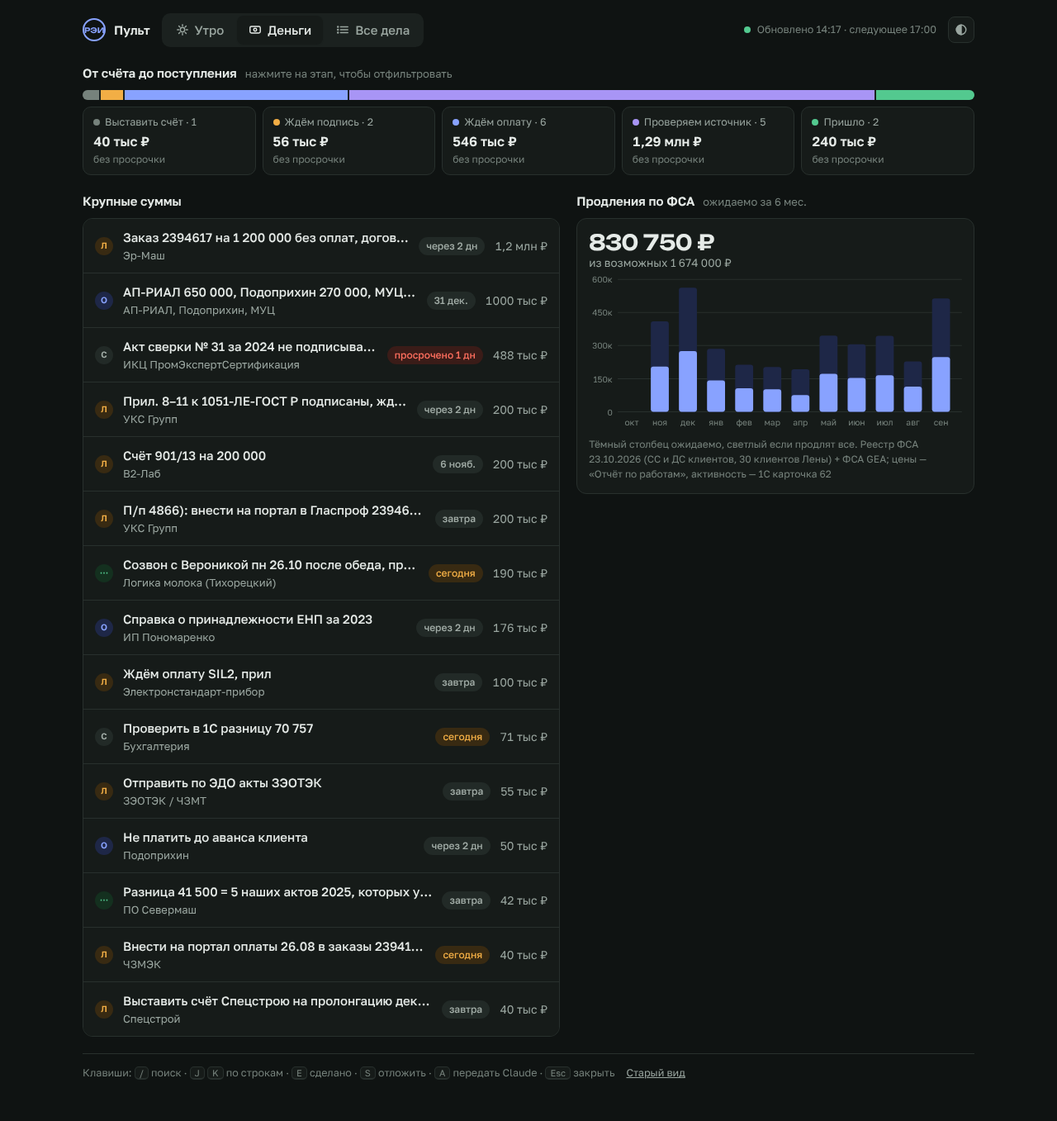
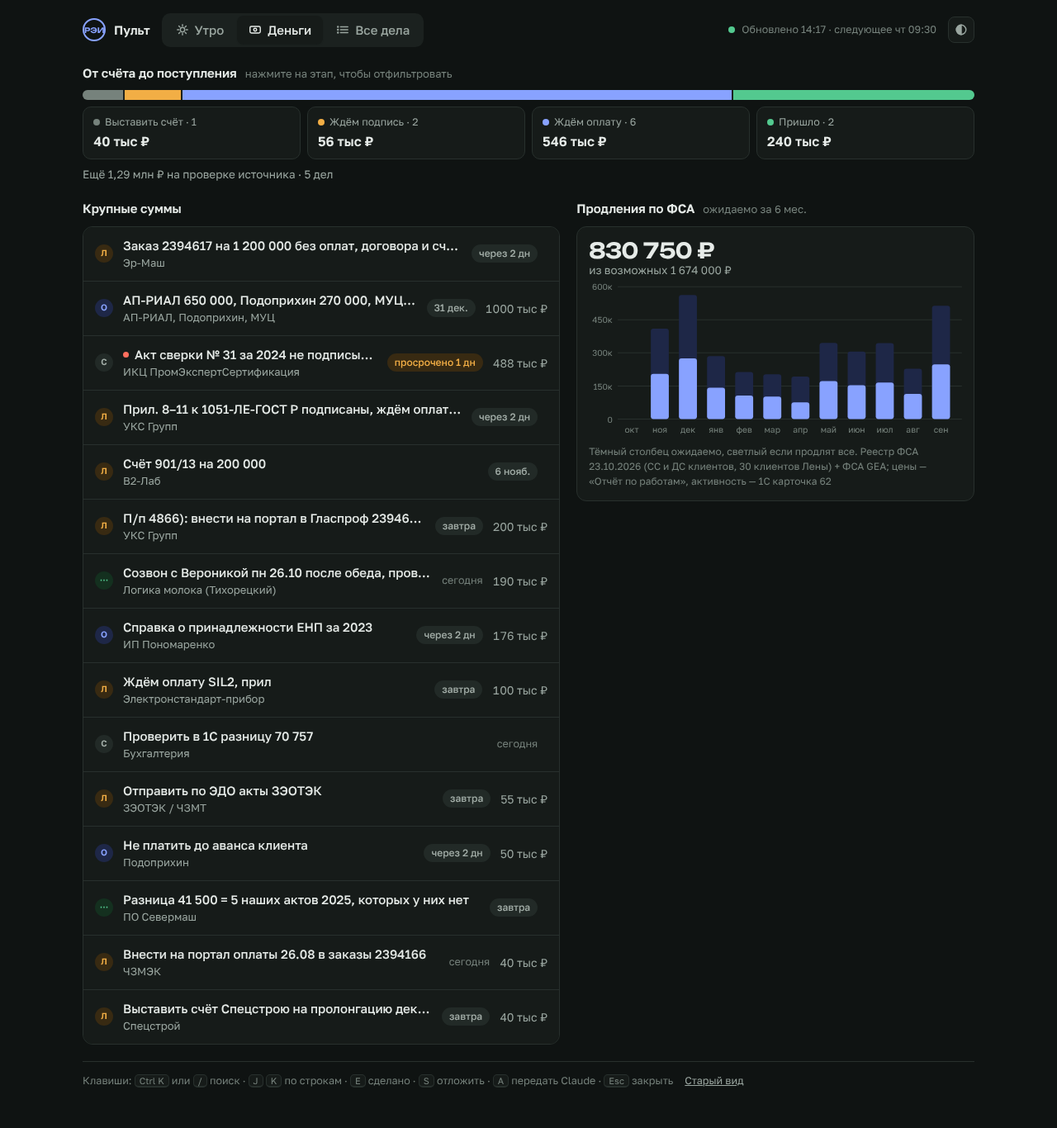
Пульт «Утро»: правки по критике штурма
«За вами» только сегодня и просрочка, остальное в корзине «На неделе»;
дубли «Нужно от вас» с базой задач убираются; заголовок = действие, тема серым;
красный только точкой «горит», пилюля только у просрочки; сумма не дублируется;
полоса денег из 4 этапов, проверка источника строкой ниже; «Горит у команды»;
группы во «Все дела» свёрнуты; Ctrl+K для поиска.

Claude-Session: https://claude.ai/code/session_01CdRUHbKnEF8o21iSRZJon7

diff --git a/index.html b/index.html
@@ -82,7 +82,7 @@ kbd{font:11px var(--f-body);border:1px solid var(--line);border-bottom-width:2px
 .chk svg{width:12px;height:12px;opacity:0;color:var(--ok)}
 .chk:hover svg,.chk.on svg{opacity:1}
 .chk.on{border-color:var(--ok);background:var(--ok-soft)}
-.chk.hot{border-color:var(--hot)}
+.hotdot{display:inline-block;width:7px;height:7px;border-radius:50%;background:var(--hot);margin-right:7px;vertical-align:2px}
 .main-txt{border:0;background:none;padding:0;text-align:left;min-width:0;display:grid;gap:1px}
 .main-txt .t{font-weight:500;white-space:nowrap;overflow:hidden;text-overflow:ellipsis}
 .main-txt .s{font-size:13px;color:var(--muted);white-space:nowrap;overflow:hidden;text-overflow:ellipsis}
@@ -96,7 +96,7 @@ kbd{font:11px var(--f-body);border:1px solid var(--line);border-bottom-width:2px
 .strip{display:grid;gap:8px}
 .pipe{display:flex;height:12px;border-radius:99px;overflow:hidden;gap:2px;background:var(--sunk)}
 .pipe span{display:block;min-width:4px}
-.stages{display:grid;grid-template-columns:repeat(5,minmax(0,1fr));gap:8px}
+.stages{display:grid;grid-template-columns:repeat(4,minmax(0,1fr));gap:8px}
 .stg{border:1px solid var(--line);border-radius:10px;padding:9px 12px;background:var(--surface);text-align:left;display:grid;gap:1px}
 .stg:hover{border-color:var(--faint)}
 .stg[aria-pressed="true"]{border-color:var(--ink)}
@@ -104,7 +104,7 @@ kbd{font:11px var(--f-body);border:1px solid var(--line);border-bottom-width:2px
 .stg .v{font-weight:600;font-size:16px;font-variant-numeric:tabular-nums}
 .stg .x{font-size:12px;color:var(--hot)}
 /* корзины */
-.buckets{display:grid;grid-template-columns:repeat(3,minmax(0,1fr));gap:10px}
+.buckets{display:grid;grid-template-columns:repeat(4,minmax(0,1fr));gap:10px}
 .bk{border:1px solid var(--line);border-radius:12px;background:var(--surface);padding:12px 14px;text-align:left;display:grid;gap:2px}
 .bk:hover{border-color:var(--faint)}
 .bk[aria-expanded="true"]{border-color:var(--ink)}
@@ -119,7 +119,10 @@ kbd{font:11px var(--f-body);border:1px solid var(--line);border-bottom-width:2px
 .chip{border:1px solid var(--line);background:var(--surface);border-radius:99px;padding:5px 12px;font-size:13px;color:var(--muted);white-space:nowrap}
 .chip[aria-pressed="true"]{background:var(--ink);color:var(--surface);border-color:var(--ink)}
 .grp{display:grid;gap:0}
-.gh{display:flex;gap:10px;align-items:baseline;padding:12px 14px 6px;background:var(--surface);border-top:1px solid var(--line);font-weight:600}
+.gh{display:flex;gap:10px;align-items:baseline;padding:11px 14px;background:var(--surface);border:0;border-top:1px solid var(--line);font-weight:600;width:100%;text-align:left;min-width:0}
+.gh:hover{background:var(--sunk)}
+.gh .car{color:var(--faint);width:10px;flex:none}
+.gh .c{white-space:nowrap;overflow:hidden;text-overflow:ellipsis;min-width:0}
 .gh:first-child{border-top:0}
 .gh .c{color:var(--faint);font-weight:400;font-size:13px}
 .gh .am{margin-left:auto}
@@ -180,7 +183,7 @@ kbd{font:11px var(--f-body);border:1px solid var(--line);border-bottom-width:2px
 .foot a{color:var(--muted)}
 .skel{height:120px;border-radius:12px;background:var(--sunk)}
 @media (max-width:820px){
-  .stages{grid-template-columns:repeat(2,minmax(0,1fr))}.buckets,.money-grid{grid-template-columns:1fr}
+  .stages,.buckets{grid-template-columns:repeat(2,minmax(0,1fr))}.money-grid{grid-template-columns:1fr}
   .tabs{position:fixed;left:0;right:0;bottom:0;z-index:15;border-radius:0;background:var(--surface);border-top:1px solid var(--line);justify-content:space-around;
     padding:6px max(8px,env(safe-area-inset-right,0px)) calc(6px + env(safe-area-inset-bottom,0px)) max(8px,env(safe-area-inset-left,0px))}
   .tab{flex-direction:column;gap:2px;font-size:11.5px;padding:6px 14px;min-height:44px}
@@ -209,7 +212,7 @@ kbd{font:11px var(--f-body);border:1px solid var(--line);border-bottom-width:2px
     <button class="icon-btn" id="theme" title="Тема" aria-label="Сменить тему"><svg viewBox="0 0 18 18" fill="none" stroke="currentColor" stroke-width="1.6"><circle cx="9" cy="9" r="6.5"/><path d="M9 2.5a6.5 6.5 0 000 13z" fill="currentColor"/></svg></button>
   </header>
   <main id="view"><div class="skel"></div></main>
-  <footer class="foot"><span class="keys">Клавиши: <kbd>/</kbd> поиск · <kbd>J</kbd> <kbd>K</kbd> по строкам · <kbd>E</kbd> сделано · <kbd>S</kbd> отложить · <kbd>A</kbd> передать Claude · <kbd>Esc</kbd> закрыть</span><a href="/old.html">Старый вид</a></footer>
+  <footer class="foot"><span class="keys">Клавиши: <kbd>Ctrl K</kbd> или <kbd>/</kbd> поиск · <kbd>J</kbd> <kbd>K</kbd> по строкам · <kbd>E</kbd> сделано · <kbd>S</kbd> отложить · <kbd>A</kbd> передать Claude · <kbd>Esc</kbd> закрыть</span><a href="/old.html">Старый вид</a></footer>
 </div>
 
 <div class="scrim" id="scrim"></div>
@@ -268,9 +271,16 @@ kbd{font:11px var(--f-body);border:1px solid var(--line);border-bottom-width:2px
       return {...t, a, dd, who, hot, urg, short: t.short || shorten(t.title, t.client), cl: internal ? (who === 'я' ? 'Лично вам' : t.section) : t.client, internal};
     });
     // «Нужно от вас» из сводки «Утра» — тоже дела за Ольгой
+    const norm = (x) => String(x || '').toLowerCase().replace(/[^a-zа-яё0-9]+/g, ' ').trim().slice(0, 28);
+    const seen = new Set(T.map((t) => norm(shorten(t.title))));
     (d.summary || []).filter((s) => s.section === 'Нужно от вас').forEach((s, i) => {
-      const txt = s.text || '', head = txt.split(/[:;(]| — /)[0].trim();
-      T.push({id: 'sum-' + (s.id || i), title: txt, short: head.length > 70 ? shorten(txt) : head, detail: txt.slice(head.length).replace(/^[:;,.\s—-]+/, ''), next: '', cl: s.client || 'Нужно от вас', client: s.client || '', internal: !s.client,
+      const txt = s.text || '', head = txt.split(/[:;(]| — /)[0].trim(), rest = txt.slice(head.length).replace(/^[:;,.\s—-]+/, '');
+      // «ГЕА: вставить памятку…» — слева тема, действие после двоеточия: заголовок = действие, тема = клиент
+      const isTopic = rest && head.split(/\s+/).length <= 3 && !/^(включить|загрузить|проверить|ответить|отправить|нажать|подписать|оплатить|вставить|продлевать)/i.test(head);
+      const short = isTopic ? shorten(rest) : (head.length > 70 ? shorten(txt) : head);
+      if (seen.has(norm(short)) || seen.has(norm(rest))) return;  // то же дело уже есть в базе задач
+      seen.add(norm(short));
+      T.push({id: 'sum-' + (s.id || i), title: txt, short, detail: isTopic ? rest : rest, next: '', cl: s.client || (isTopic ? head : 'Нужно от вас'), client: s.client || '', internal: !s.client && !isTopic,
         a: 0, dd: 0, who: 'я', hot: s.flag === 'срочно', urg: 'сегодня', section: 'Нужно от вас', fromSummary: true, link: s.link || '', mgr: 'Ольга', owner: 'Утро и задачи'});
     });
     // свежесть
@@ -283,7 +293,9 @@ kbd{font:11px var(--f-body);border:1px solid var(--line);border-bottom-width:2px
   }
   const isOpen = (t) => !(pend[t.id] && ['done', 'later', 'wait'].includes(pend[t.id].action));
   const order = (x, y) => (y.hot - x.hot) || ((x.dd ?? 99) - (y.dd ?? 99)) || (y.a - x.a);
-  const mine = () => T.filter((t) => t.who === 'я' && isOpen(t)).sort((x, y) => (y.fromSummary ? 1 : 0) - (x.fromSummary ? 1 : 0) || order(x, y));
+  const mineAll = () => T.filter((t) => t.who === 'я' && isOpen(t)).sort((x, y) => (y.hot - x.hot) || (y.fromSummary ? 1 : 0) - (x.fromSummary ? 1 : 0) || order(x, y));
+  const isToday = (t) => t.urg === 'сегодня' || (t.dd !== null && t.dd <= 0);
+  const mine = () => mineAll().filter(isToday);
 
   // ---------- действия: сразу в ветку inbox, с отменой ----------
   const LABEL = {done: 'Сделано', later: 'Отложить до завтра', eve: 'На вечер', prio: 'Горит', wait: 'Ждём клиента', ai: 'Передано Claude'};
@@ -322,29 +334,32 @@ kbd{font:11px var(--f-body);border:1px solid var(--line);border-bottom-width:2px
   }
 
   // ---------- строки ----------
-  const duePill = (t) => t.fromSummary ? (t.hot ? '<span class="pill p-hot">срочно</span>' : '<span class="pill p-warn">сегодня</span>')
-    : t.dd === null ? '' : t.dd < 0 ? `<span class="pill ${t.hot ? 'p-hot' : 'p-warn'}">просрочено ${-t.dd} дн</span>` : t.dd === 0 ? '<span class="pill p-warn">сегодня</span>'
+  const duePill = (t) => t.fromSummary ? ''
+    : t.dd === null ? '' : t.dd < 0 ? `<span class="pill p-warn">просрочено ${-t.dd} дн</span>` : t.dd === 0 ? '<span class="hint">сегодня</span>'
     : t.dd === 1 ? '<span class="pill p-wait">завтра</span>' : `<span class="pill p-wait">${t.dd <= 7 ? 'через ' + t.dd + ' дн' : parseRu(t.due).toLocaleDateString('ru-RU', {day: 'numeric', month: 'short'})}</span>`;
   const av = (t) => t.who === 'я' ? '<span class="av" title="За вами">О</span>' : t.who === 'Лена' ? '<span class="av l" title="Ведёт Лена">Л</span>' : t.who === 'клиент' || t.who === 'эксперт' ? `<span class="av k" title="Ждём: ${t.who}">⋯</span>` : '<span class="av c" title="Ведёт Claude">C</span>';
   const syncTag = (t) => pend[t.id] ? `<span class="sync">${LABEL[pend[t.id].action].toLowerCase()} · ждёт синхронизации</span>` : '';
   const row = (t, opt = {}) => `<div class="rw" data-id="${esc(t.id)}"><div class="under"><span class="l">Сделано</span><span class="r">Отложить</span></div>
-    <div class="row">${opt.check !== false ? `<button class="chk ${t.hot ? 'hot' : ''}" data-act="done" aria-label="Сделано">${ico.check}</button>` : av(t)}
-    <button class="main-txt" data-open><span class="t">${esc(t.short)}</span><span class="s">${esc(opt.noClient ? (t.next || '').slice(0, 120) : t.fromSummary ? t.detail.slice(0, 140) : t.cl)}${syncTag(t) ? ' · ' : ''}${syncTag(t)}</span></button>
-    ${duePill(t)}<span class="am">${rub(t.a)}</span></div></div>`;
+    <div class="row">${opt.check !== false ? `<button class="chk" data-act="done" aria-label="Сделано">${ico.check}</button>` : av(t)}
+    <button class="main-txt" data-open><span class="t">${t.hot ? '<span class="hotdot" title="Горит"></span>' : ''}${esc(t.short)}</span><span class="s">${esc(opt.noClient ? (t.next || '').slice(0, 120) : t.fromSummary ? t.detail.slice(0, 140) : t.cl)}${syncTag(t) ? ' · ' : ''}${syncTag(t)}</span></button>
+    ${duePill(t)}<span class="am">${t.a && !t.short.replace(/\s/g, '').includes(String(Math.round(t.a))) ? rub(t.a) : ''}</span></div></div>`;
 
   // ---------- вкладки ----------
   let tab = 'utro', q = '', who = 'all', sec = 'all', mf = '', openB = '';
-  const STAGES = [['выставить счёт', 'Выставить счёт', 'var(--faint)'], ['ждём подпись', 'Ждём подпись', 'var(--warn)'], ['ждём', 'Ждём оплату', 'var(--accent)'], ['проверяется', 'Проверяем источник', 'var(--violet)'], ['пришло', 'Пришло', 'var(--ok)']];
+  const openG = new Set();
+  const STAGES = [['выставить счёт', 'Выставить счёт', 'var(--faint)'], ['ждём подпись', 'Ждём подпись', 'var(--warn)'], ['ждём', 'Ждём оплату', 'var(--accent)'], ['пришло', 'Пришло', 'var(--ok)']];
+  const CHECK = ['проверяется', 'Проверяем источник', 'var(--violet)'];
   function money() {
     const o = T.filter(isOpen);
-    return STAGES.map(([k, l, c]) => { const a = o.filter((t) => t.money === k); return {k, l, c, n: a.length, s: a.reduce((x, t) => x + t.a, 0), late: a.filter((t) => t.dd !== null && t.dd < 0).reduce((x, t) => x + t.a, 0)}; });
+    return [...STAGES, CHECK].map(([k, l, c]) => { const a = o.filter((t) => t.money === k); return {k, l, c, n: a.length, s: a.reduce((x, t) => x + t.a, 0), late: a.filter((t) => t.dd !== null && t.dd < 0).reduce((x, t) => x + t.a, 0)}; });
   }
-  const stripHTML = (g, clickTo) => { const tot = g.reduce((x, y) => x + y.s, 0) || 1;
+  const stripHTML = (all, clickTo) => { const g = all.filter((x) => x.k !== CHECK[0]), chk = all.find((x) => x.k === CHECK[0]), tot = g.reduce((x, y) => x + y.s, 0) || 1;
     return `<div class="strip"><div class="pipe">${g.filter((x) => x.s).map((x) => `<span style="flex:${x.s / tot};background:${x.c}" title="${x.l}: ${full(x.s)}"></span>`).join('')}</div>
-    <div class="stages">${g.map((x) => `<button class="stg" data-mf="${x.k}" data-go="${clickTo}" aria-pressed="${tab === 'money' && mf === x.k}"><span class="k"><span class="dot" style="background:${x.c}"></span>${x.l} · ${x.n}</span><span class="v">${rub(x.s) || '—'}</span>${x.late ? `<span class="x">${rub(x.late)} просрочено</span>` : '<span class="x" style="color:var(--faint)">без просрочки</span>'}</button>`).join('')}</div></div>`; };
+    <div class="stages">${g.map((x) => `<button class="stg" data-mf="${x.k}" data-go="${clickTo}" aria-pressed="${tab === 'money' && mf === x.k}"><span class="k"><span class="dot" style="background:${x.c}"></span>${x.l} · ${x.n}</span><span class="v">${rub(x.s) || '—'}</span>${x.late ? `<span class="x">из них ${rub(x.late)} просрочено</span>` : ''}</button>`).join('')}</div>
+    ${chk && chk.s ? `<button class="link" style="margin:0;justify-self:start;color:var(--muted)" data-mf="${CHECK[0]}" data-go="${clickTo}">Ещё ${rub(chk.s)} на проверке источника · ${plural(chk.n, 'дело', 'дела', 'дел')}</button>` : ''}</div>`; };
 
   function utro() {
-    const m = mine(), shown = m.slice(0, 7), o = T.filter(isOpen);
+    const m = mine(), shown = m.slice(0, 7), o = T.filter(isOpen), week = mineAll().filter((t) => !isToday(t));
     const g = money(), wait = g.find((x) => x.k === 'ждём'), late = g.reduce((x, y) => x + y.late, 0);
     const wc = o.filter((t) => t.who === 'клиент' || t.who === 'эксперт');
     const oldest = wc.reduce((mx, t) => { const s = parseRu(t.waitSince); return s ? Math.max(mx, Math.round((today - s) / MS)) : mx; }, 0);
@@ -352,19 +367,19 @@ kbd{font:11px var(--f-body);border:1px solid var(--line);border-bottom-width:2px
     const proj = (D.summary || []).filter((s) => s.section === 'Проекты');
     const dn = now.toLocaleDateString('ru-RU', {weekday: 'long', day: 'numeric', month: 'long'});
     const bucket = (k, n, title, sub) => `<button class="bk" data-bucket="${k}" aria-expanded="${openB === k}"><span class="n">${n}</span><span class="k">${title}</span><span class="s">${sub}</span></button>`;
-    const bl = openB === 'wait' ? wc.sort(order) : openB === 'team' ? team.sort(order) : [];
+    const bl = openB === 'wait' ? wc.sort(order) : openB === 'team' ? (teamHot.length ? teamHot : team).sort(order) : openB === 'week' ? week : [];
     return `<section class="lead"><div class="day">${cap(dn)}</div>
-      <h1>${m.length ? `За вами <em>${plural(m.length, 'дело', 'дела', 'дел')}</em>${m.filter((t) => t.urg === 'сегодня').length < m.length ? ', ' + m.filter((t) => t.urg === 'сегодня').length + ' на сегодня' : ''}` : 'Утро разобрано'}. Ждём оплату ${rub(wait.s) || '0 ₽'}${late ? `, из них ${rub(late)} просрочено` : ''}.${wc.length ? ` ${plural(wc.length, 'дело ждёт', 'дела ждут', 'дел ждут')} клиента.` : ''}</h1>
-      <div class="cta">${m.length ? `<button class="btn" data-focus>Разобрать утро <kbd style="background:transparent;color:inherit;border-color:currentColor;opacity:.7">R</kbd></button>` : ''}<span class="hint desk">По одному делу на экране: сделано, отложить или передать Claude</span></div></section>
-    <section class="sec"><div class="sh"><h2>За вами</h2><span class="c">${m.length > 7 ? 'первые 7 из ' + m.length : 'круг слева: сделано'}</span>${m.length > 7 ? '<button class="link" data-go="all" data-who="я">Все ' + m.length + '</button>' : ''}</div>
-      ${shown.length ? `<div class="rows">${shown.map((t) => row(t)).join('')}</div>` : `<div class="empty"><b>Утро разобрано</b><span>Новых дел за вами нет. Следующее обновление данных указано вверху.</span></div>`}</section>
+      <h1>${m.length ? `Сегодня за вами <em>${plural(m.length, 'дело', 'дела', 'дел')}</em>` : 'Утро разобрано'}. Ждём оплату ${rub(wait.s) || '0 ₽'}${late ? `, из них ${rub(late)} просрочено` : ''}.${wc.length ? ` ${plural(wc.length, 'дело ждёт', 'дела ждут', 'дел ждут')} клиента.` : ''}</h1>
+      <div class="cta">${m.length ? `<button class="btn" data-focus>Разобрать утро <kbd style="background:transparent;color:inherit;border-color:currentColor;opacity:.7">R</kbd></button>` : ''}${m.length ? '<span class="hint desk">По одному делу на экране: сделано, отложить или передать Claude</span>' : ''}</div></section>
+    <section class="sec"><div class="sh"><h2>За вами</h2><span class="c">сегодня и просроченное</span>${m.length > 7 ? '<button class="link" data-focus>Ещё ' + (m.length - 7) + ' в разборе</button>' : ''}</div>
+      ${shown.length ? `<div class="rows">${shown.map((t) => row(t)).join('')}</div>` : `<div class="empty"><b>Утро разобрано</b><span>На сегодня за вами ничего. ${esc($('#fresh').textContent.replace(/^.*следующее/, 'Следующее обновление'))}</span></div>`}</section>
     <section class="sec"><div class="sh"><h2>Деньги</h2><button class="link" data-go="money">Подробно</button></div>${stripHTML(g, 'money')}</section>
     <section class="sec"><div class="sh"><h2>Остальное</h2><span class="c">свёрнуто, откройте нужное</span></div>
-      <div class="buckets">${bucket('wait', wc.length, 'Ждём клиента', oldest ? 'самое долгое ожидание ' + oldest + ' дн' : 'от нас ничего не нужно')}
-      ${bucket('team', team.length, 'Делают Лена и Claude', teamHot.length ? 'горит ' + teamHot.length + ', смотреть не обязательно' : 'всё идёт по плану')}
+      <div class="buckets">${bucket('week', week.length, 'На неделе', week.length ? 'за вами, не сегодня' : 'пусто')}${bucket('wait', wc.length, 'Ждём клиента', oldest ? 'самое долгое ожидание ' + oldest + ' дн' : 'от нас ничего не нужно')}
+      ${bucket('team', teamHot.length, 'Горит у команды', 'Лена и Claude ведут ' + plural(team.length, 'дело', 'дела', 'дел'))}
       ${bucket('proj', proj.length, 'Проекты', proj.filter((p) => p.flag === 'warn' || p.flag === 'срочно').length + ' ждут вашего шага')}</div>
       ${openB === 'proj' ? `<div class="rows" style="padding:12px 14px"><div class="projects">${proj.map((p) => `<div class="pj"><span class="dot" style="background:${p.flag === 'ok' ? 'var(--ok)' : 'var(--warn)'}"></span><span><b>${esc(p.text.split(':')[0])}</b>${esc(p.text.slice(p.text.split(':')[0].length))}</span></div>`).join('')}</div></div>` : ''}
-      ${bl.length ? `<div class="rows">${bl.slice(0, 15).map((t) => row(t, {check: false})).join('')}</div>${bl.length > 15 ? `<button class="link" style="margin:0" data-go="all" data-who="${openB === 'wait' ? 'клиент' : 'team'}">Все ${bl.length}</button>` : ''}` : ''}
+      ${bl.length ? `<div class="rows">${bl.slice(0, 15).map((t) => row(t, {check: openB === 'week'})).join('')}</div>${bl.length > 15 ? `<button class="link" style="margin:0" data-go="all" data-who="${openB === 'wait' ? 'клиент' : 'team'}">Все ${bl.length}</button>` : ''}` : ''}
     </section>`;
   }
 
@@ -381,7 +396,7 @@ kbd{font:11px var(--f-body);border:1px solid var(--line);border-bottom-width:2px
       ${chips.map(([k, l]) => `<button class="chip" data-who="${k}" aria-pressed="${who === k}">${l}</button>`).join('')}</div>
       <div class="tools">${secs.map((s) => `<button class="chip" data-sec="${s}" aria-pressed="${sec === s}">${s === 'all' ? 'Все разделы' : s}</button>`).join('')}</div>
       <div class="sh"><h2>${plural(o.length, 'дело', 'дела', 'дел')}</h2><span class="c">${plural(groups.length, 'клиент', 'клиента', 'клиентов')} и направлений</span></div>
-      ${groups.length ? `<div class="rows grp">${groups.map(([c, ts]) => `<div class="gh">${esc(c)}<span class="c">${ts.length > 1 ? plural(ts.length, 'дело', 'дела', 'дел') : ''}</span><span class="am">${rub(ts.reduce((x, t) => x + t.a, 0))}</span></div>${ts.map((t) => row(t, {noClient: true})).join('')}`).join('')}</div>` : '<div class="empty"><b>Ничего не нашлось</b><span>Поменяйте фильтр или слово для поиска.</span></div>'}</section>`;
+      ${groups.length ? `<div class="rows grp">${groups.map(([c, ts]) => { const op = q || who !== 'all' || sec !== 'all' || groups.length <= 3 || openG.has(c) || ts.some((t) => t.hot); return `<button class="gh" data-g="${esc(c)}" aria-expanded="${op}"><span class="car">${op ? '▾' : '▸'}</span>${esc(c)}<span class="c">${plural(ts.length, 'дело', 'дела', 'дел')}${!op ? ' · ' + esc(ts[0].short) : ''}</span><span class="am">${rub(ts.reduce((x, t) => x + t.a, 0))}</span></button>${op ? ts.map((t) => row(t, {noClient: true})).join('') : ''}`; }).join('')}</div>` : '<div class="empty"><b>Ничего не нашлось</b><span>Поменяйте фильтр или слово для поиска.</span></div>'}</section>`;
   }
 
   function moneyTab() {
@@ -390,7 +405,7 @@ kbd{font:11px var(--f-body);border:1px solid var(--line);border-bottom-width:2px
     const adv = o.filter((t) => /аванс/i.test(t.title) && /без акт/i.test(t.title)), advS = adv.reduce((x, t) => x + t.a, 0);
     const P = D.prognoz;
     return `<section class="sec"><div class="sh"><h2>От счёта до поступления</h2><span class="c">нажмите на этап, чтобы отфильтровать</span></div>${stripHTML(g, '')}</section>
-    <div class="money-grid"><section class="sec"><div class="sh"><h2>${mf ? STAGES.find((s) => s[0] === mf)[1] : 'Крупные суммы'}</h2>${mf ? '<button class="link" data-mf="">Все этапы</button>' : ''}</div>
+    <div class="money-grid"><section class="sec"><div class="sh"><h2>${mf ? [...STAGES, CHECK].find((s) => s[0] === mf)[1] : 'Крупные суммы'}</h2>${mf ? '<button class="link" data-mf="">Все этапы</button>' : ''}</div>
       ${list.length ? `<div class="rows">${list.map((t) => row(t, {check: false})).join('')}</div>` : '<div class="empty"><b>На этом этапе пусто</b></div>'}
       ${advS ? `<div class="sub">Получено авансом без актов: <b class="num">${full(advS)}</b> (${plural(adv.length, 'запись', 'записи', 'записей')}). Нужны акты, иначе это долг перед клиентом.</div>` : ''}</section>
       ${P && P.months ? `<section class="sec"><div class="sh"><h2>Продления по ФСА</h2><span class="c">ожидаемо за 6 мес.</span></div><div class="chart"><div class="big">${full(P.next6_expected)}</div><div class="sub">из возможных ${full(P.next6_potential)}</div>${chart(P.months.slice(0, 12))}<div class="tip" id="tip"></div><div class="cap">Тёмный столбец ожидаемо, светлый если продлят все. ${esc(P.source || '')}</div></div></section>` : ''}</div>`;
@@ -491,6 +506,7 @@ kbd{font:11px var(--f-body);border:1px solid var(--line);border-bottom-width:2px
     else if (d.go) { if (d.who) { who = d.who; sec = 'all'; } go(d.go); }
     else if (d.who) { who = d.who; render(); }
     else if (d.sec) { sec = d.sec; render(); }
+    else if (d.g !== undefined) { openG.has(d.g) ? openG.delete(d.g) : openG.add(d.g); render(); }
   });
   document.addEventListener('keydown', (e) => {
     const typing = /INPUT|TEXTAREA/.test(document.activeElement.tagName);
@@ -500,6 +516,7 @@ kbd{font:11px var(--f-body);border:1px solid var(--line);border-bottom-width:2px
       const k = {e: 'done', у: 'done', s: 'later', ы: 'later', a: 'ai', ф: 'ai', ArrowRight: 'skip'}[e.key]; if (k) { e.preventDefault(); focusAct(k); } return;
     }
     if (e.key === 'Escape') { if (dTask) closeTask(); else if (typing) document.activeElement.blur(); return; }
+    if ((e.ctrlKey || e.metaKey) && (e.key === 'k' || e.key === 'л')) { e.preventDefault(); if (tab !== 'all') go('all'); $('#q').focus(); return; }
     if (typing || e.ctrlKey || e.metaKey || e.altKey) return;
     const k = e.key.toLowerCase();
     if (k === '/' || k === '.') { e.preventDefault(); if (tab !== 'all') go('all'); $('#q').focus(); return; }
